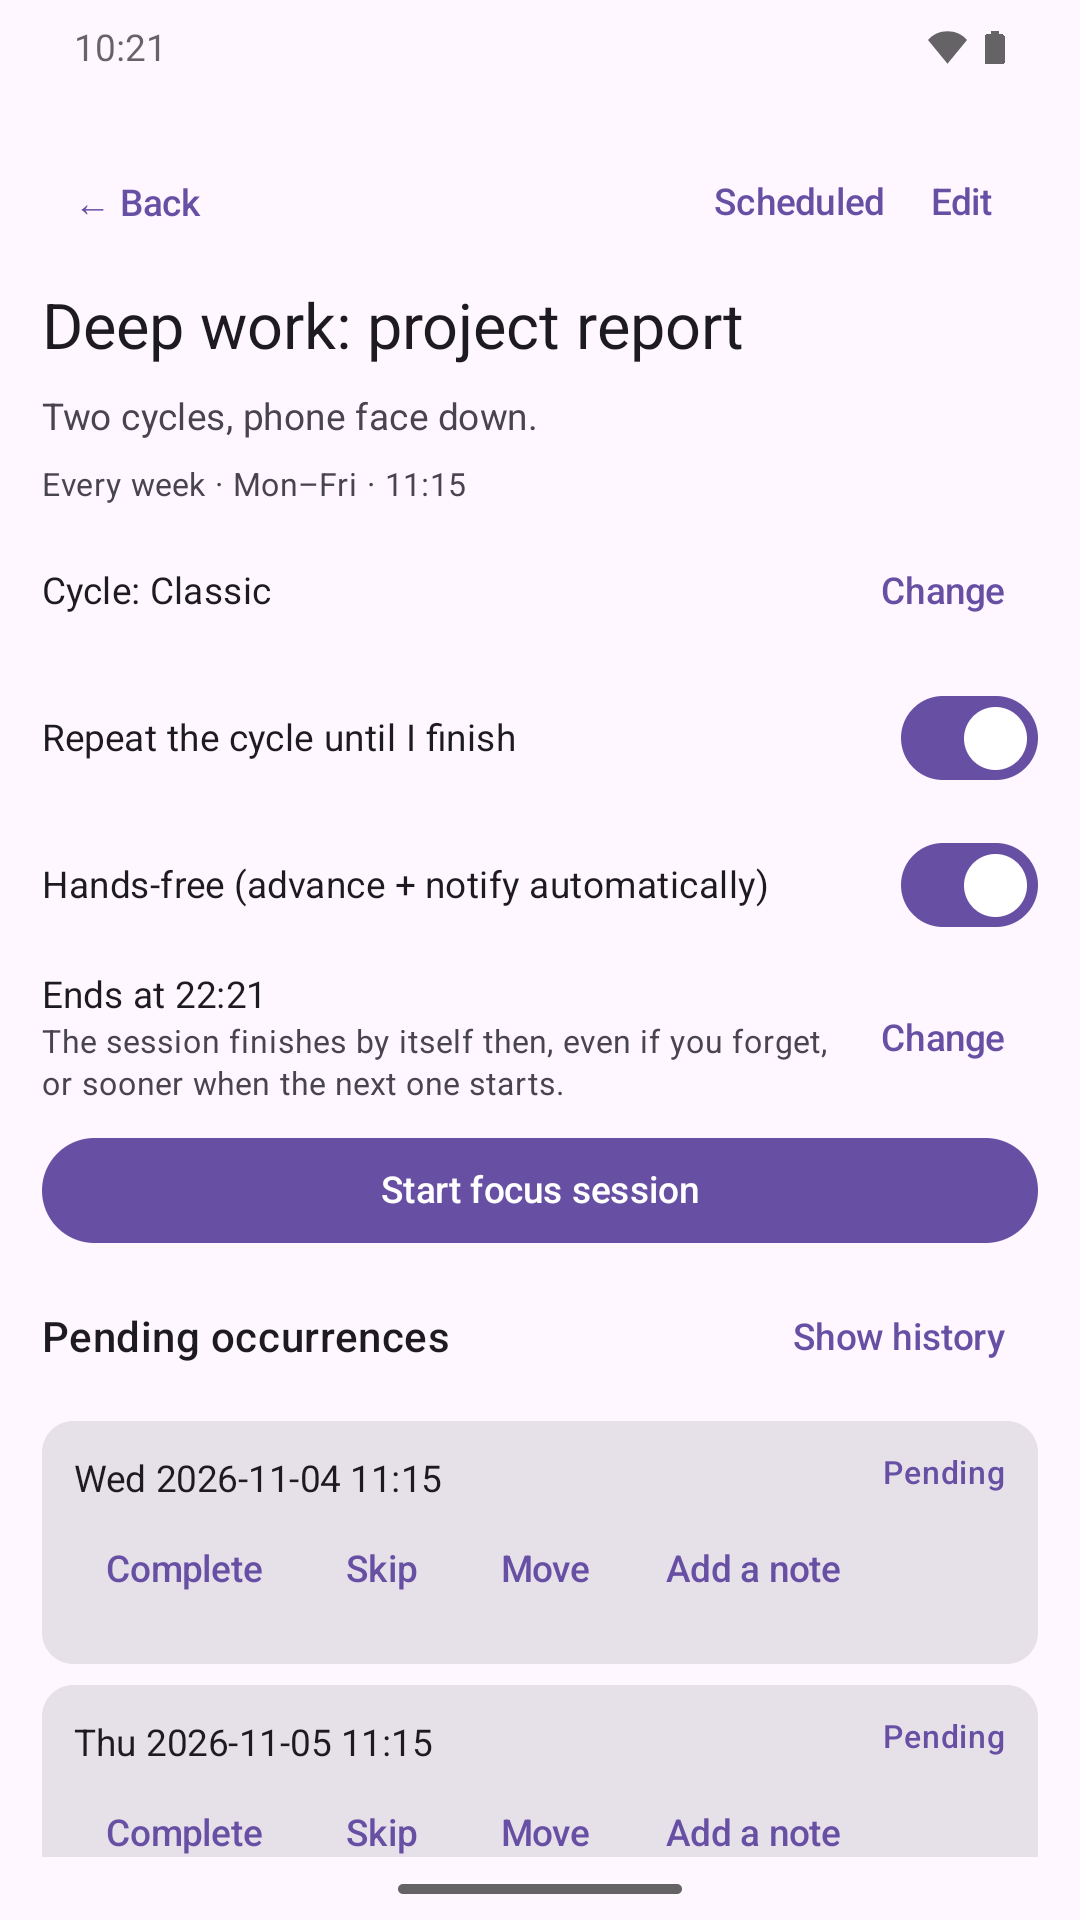
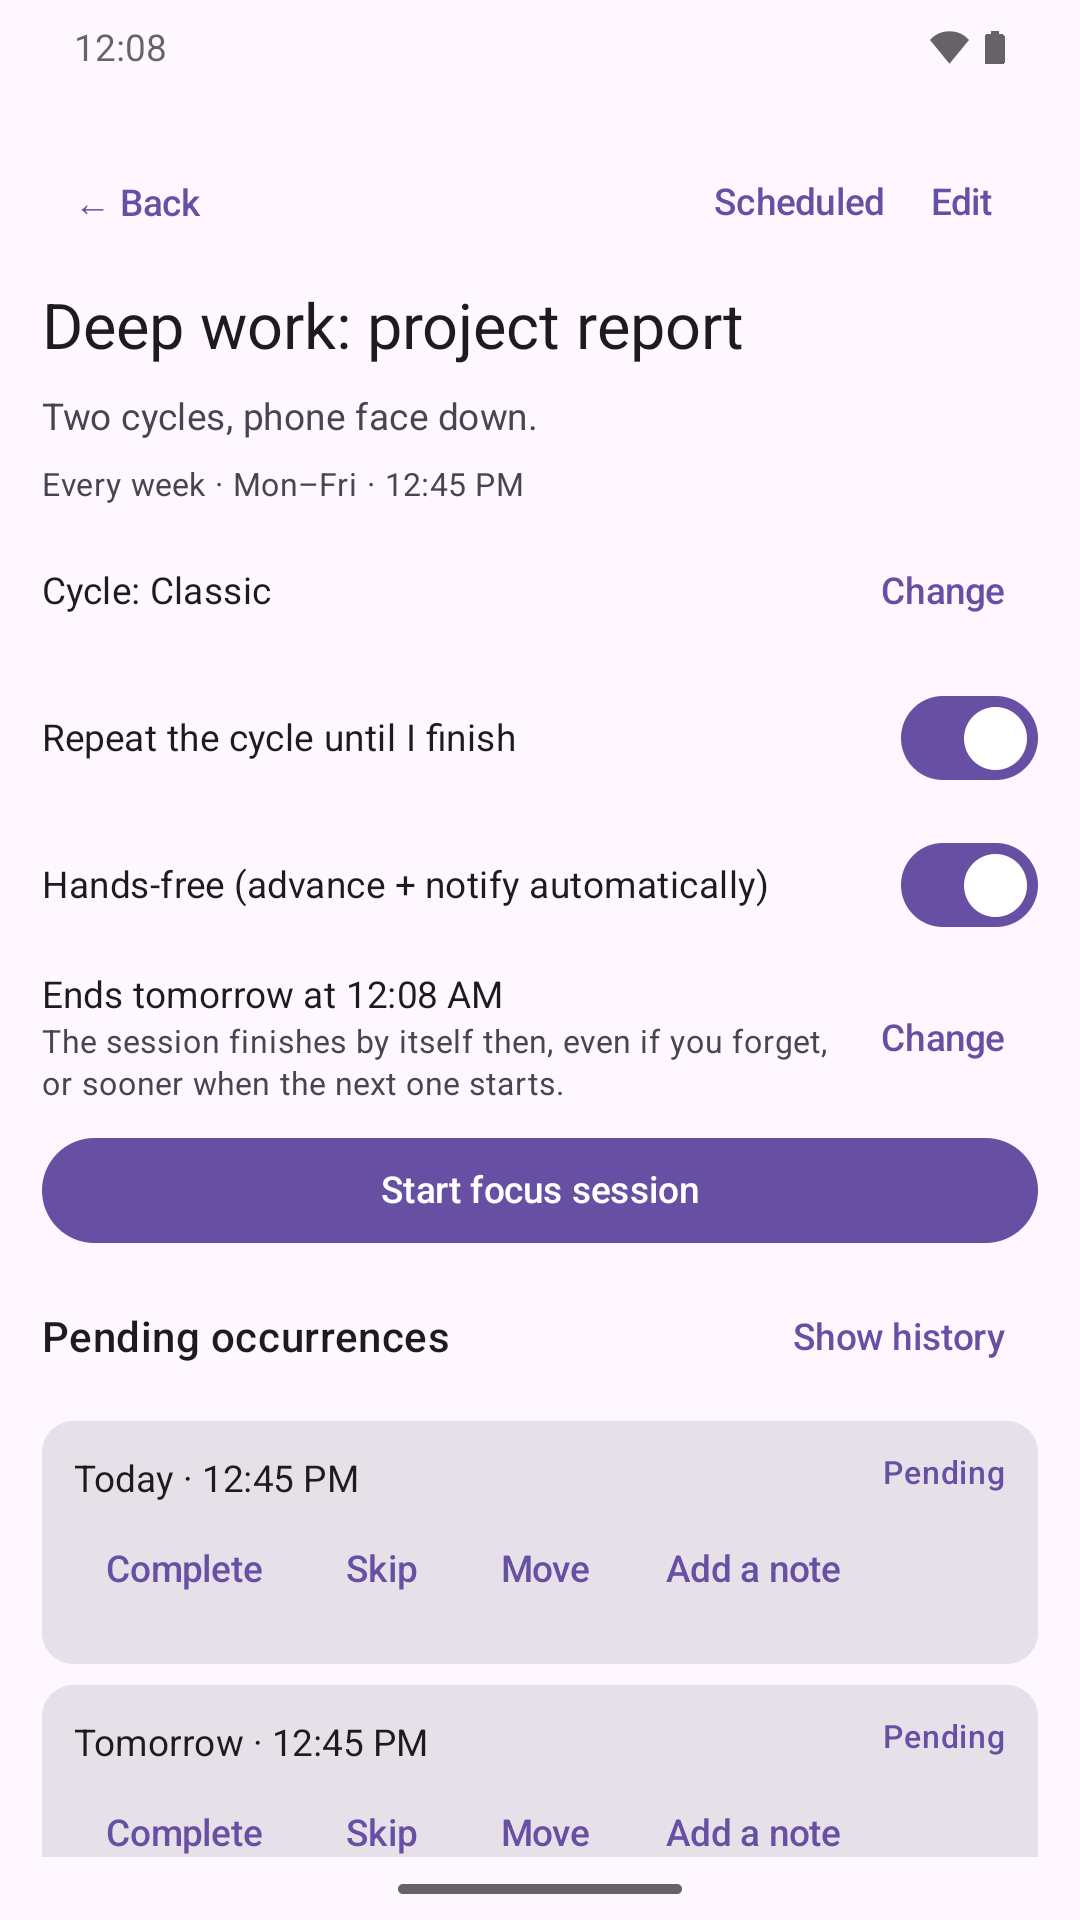
The store screenshots with the new navigation, in English and French
Eight phone screenshots per language in store/play/<language>/images/phoneScreenshots/, in the listing's order:
Home, a reminder ringing with its buttons, a todo with its cycle, a focus session, the calendar, the budget month
and its limits, Settings. They show the dates and the navigation of #92 and #93; English on a 12-hour account,
French on a 24-hour one. They replace the six English ones, taken before Home read like this.

diff --git a/docs/ROADMAP.md b/docs/ROADMAP.md
@@ -476,10 +476,11 @@ installing on real devices second, hosting last.
       in gourdes and dollars, limits, a month of movements, the salary as a rule) for the screenshots and the
       reviewers' account; `play.py crop` trims phone captures to Play's 2:1. Checked: the script on a scratch server in
       English and French (balances add up, today's occurrences there, an account with data refused), the crop on a
-      1080 x 2340 picture. The English screenshots (2026-11-04, `store/play/en-US/images/phoneScreenshots/`): the
-      calendar, a reminder ringing with its buttons, a todo with its cycle, a focus session, the budget month and its
-      limits, on the emulator in a seeded account. Home is left out while it lists raw UTC times; the French and
-      Kreyòl sets wait for that fix.
+      1080 x 2340 picture. The screenshots (2026-11-04, after the dates and the navigation), English and French in
+      `store/play/<language>/images/phoneScreenshots/`: Home, a reminder ringing with its buttons, a todo with its
+      cycle, a focus session, the calendar, the budget month and its limits, Settings (three languages, 12 or 24
+      hours); English on a 12-hour account, French on a 24-hour one, on the emulator in seeded accounts. Kreyòl waits
+      for Play to offer the language.
 - [x] Step 3 of the site plan, the release workflow (2026-10-31): a tag `v<kadans.version>` builds the `.deb` and
       `.rpm` (Ubuntu 22.04, for libraries every distribution has) and the `.msi` (Windows) with Java 25, and publishes
       the GitHub Release with `latest.json` (notes from `clients/app/releases/<version>.json`) and `SHA256SUMS`; a pull

diff --git a/docs/OWNER-CHECKLIST.md b/docs/OWNER-CHECKLIST.md
@@ -242,9 +242,10 @@ Both:
       default, French under "Manage translations", Kreyòl when Play offers it: store/play/README.md), the app icon
       is `branding/play-store-icon.png` (512 x 512, the logo: branding/README.md) and the feature graphic
       `branding/play-feature-graphic.png` (1024 x 500, no text: Play writes the name beside it). Phone screenshots:
-      the English set is `store/play/en-US/images/phoneScreenshots/`, uploaded in its order (Play shows it to every
-      language until one has its own). To take a set again (two to eight): register a demo account per language in
-      the app, fill it with
+      `store/play/en-US/images/phoneScreenshots/` for the main listing and `store/play/fr-FR/images/phoneScreenshots/`
+      for the French translation, eight each, uploaded in their order (a language without its own set shows the
+      English one). To take a set again (two to eight): register a demo account per language in the app, fill it
+      with
       `python3 tools/demo/seed_demo.py <username> --language en|fr|ht` (it refuses an account with data), take the
       screenshots on the phone within a few hours (today's todos are on Home), then
       `python3 tools/store/play.py crop <files>` (Play refuses taller than 2:1; a 1080 x 2340 capture is). Run the
